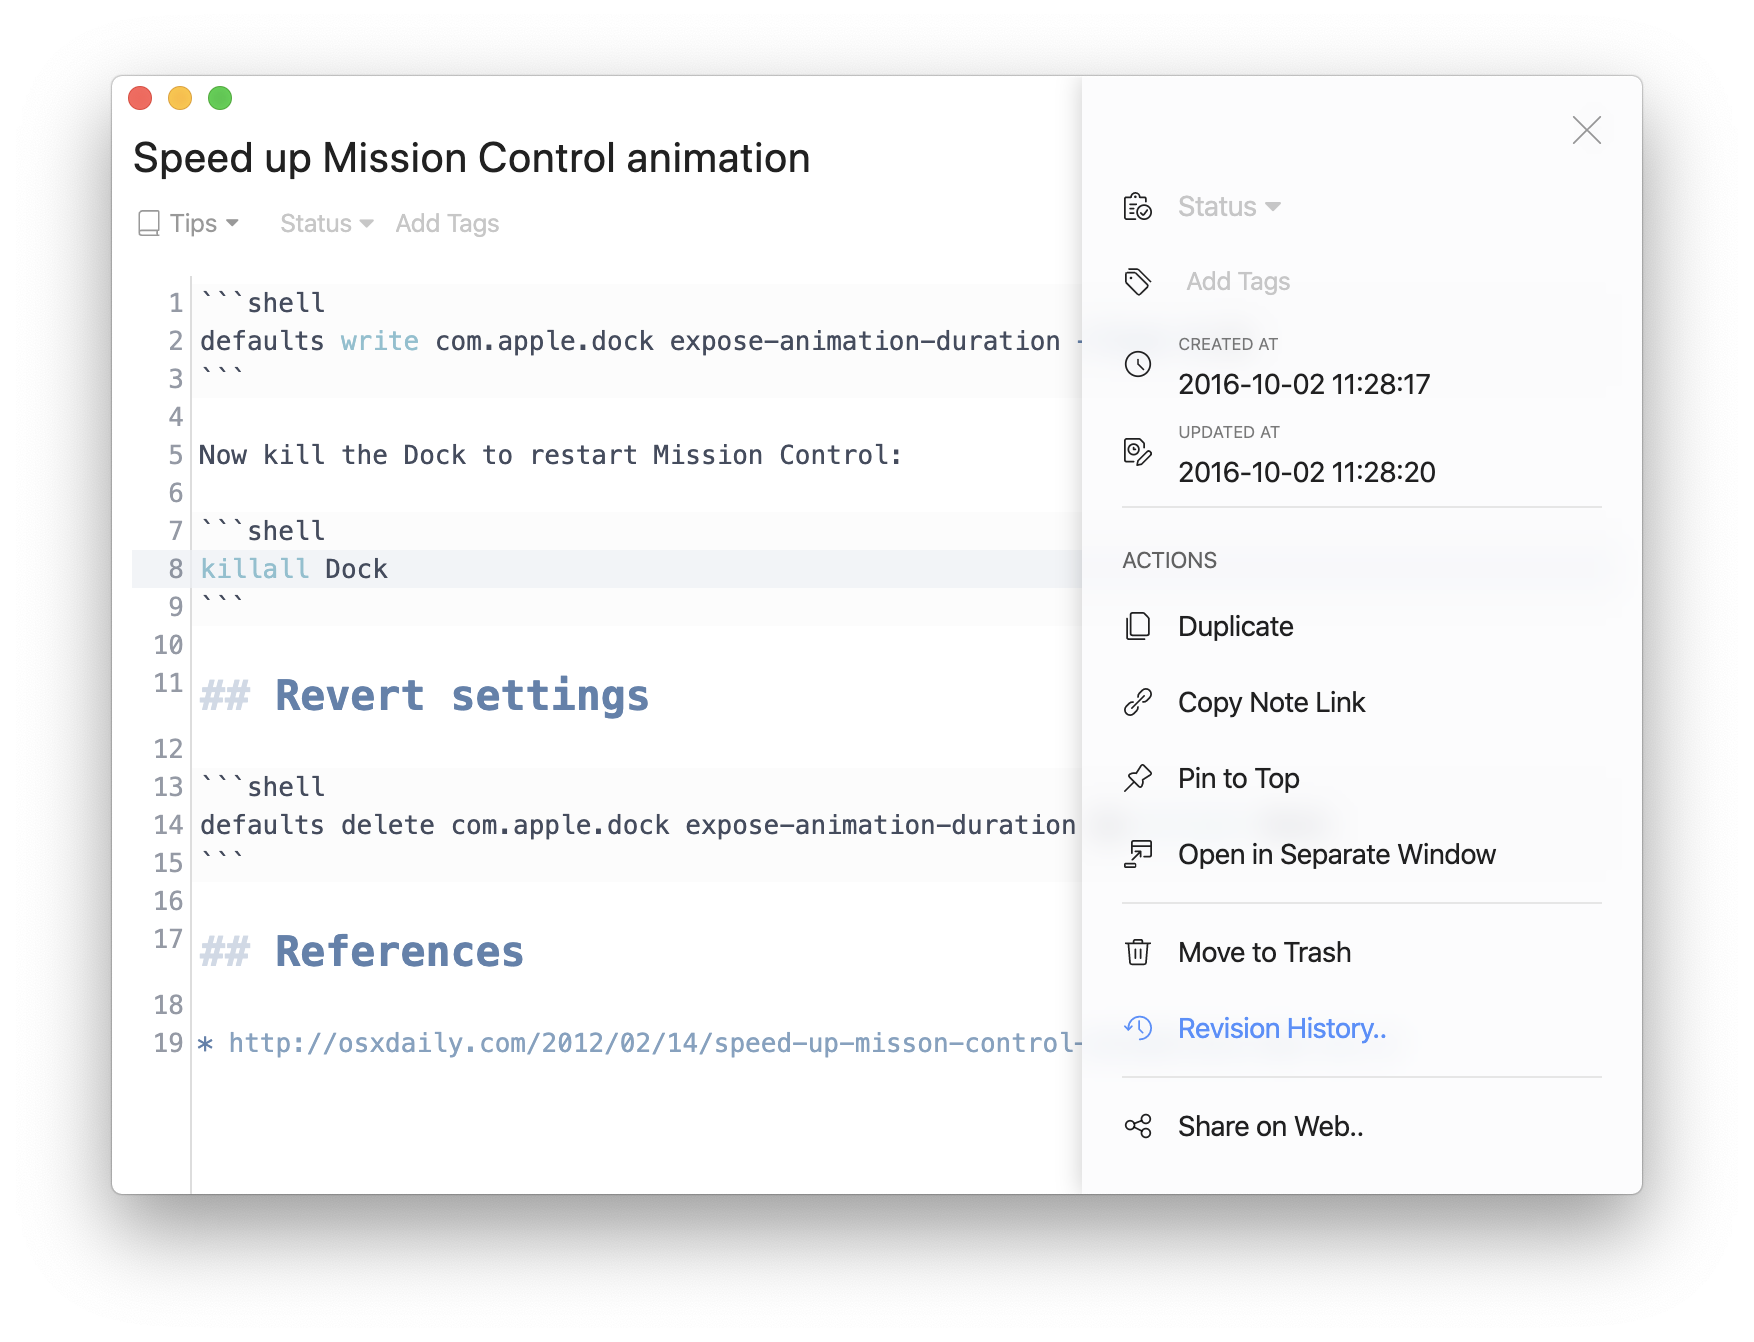
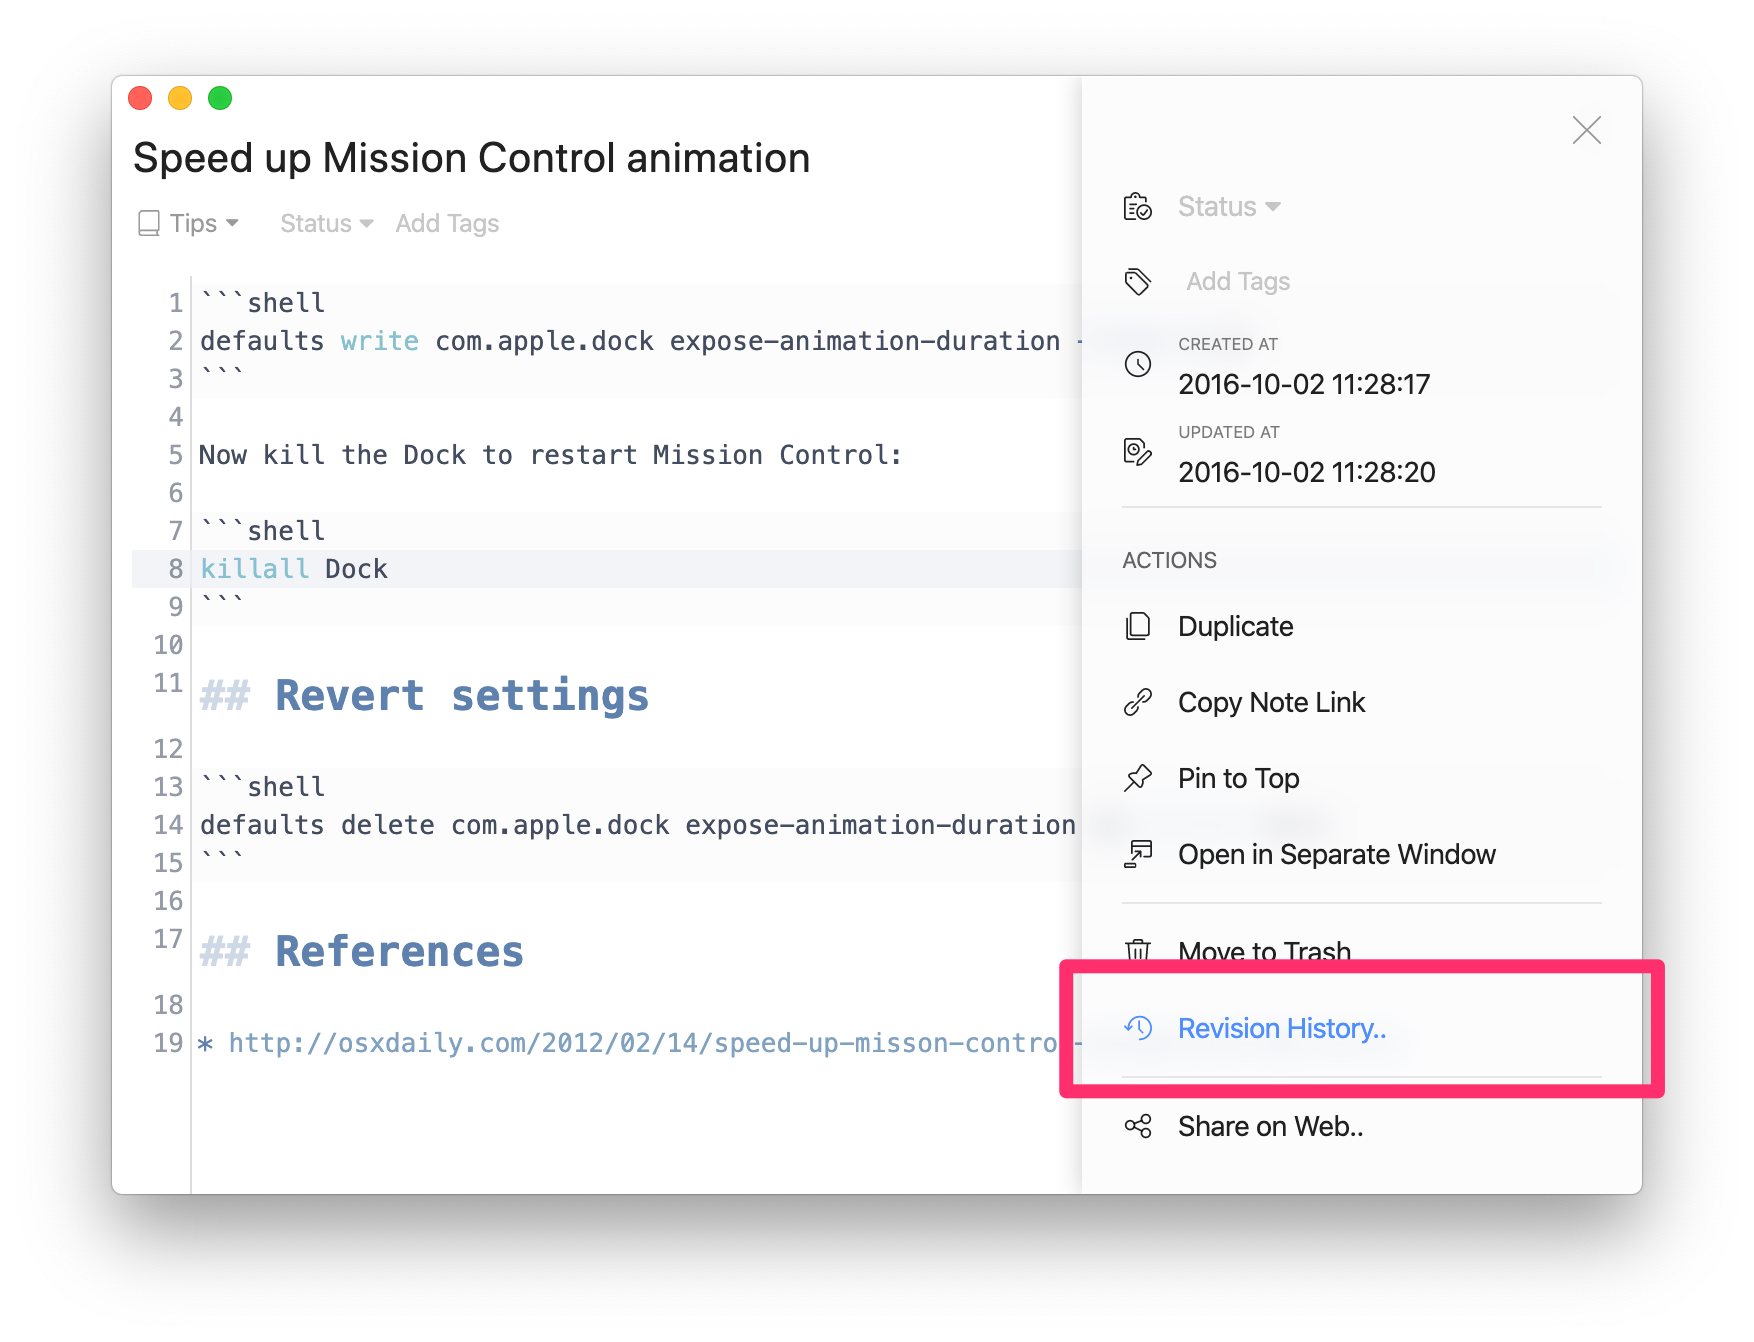
fix(revision-history): update

Changed region(s): [[0.5849, 0.7027, 0.9544, 0.8249], [0.0924, 0.0611, 0.1539, 0.0917]]

diff --git a/src/pages/manual/revision-history.md b/src/pages/manual/revision-history.md
@@ -19,11 +19,12 @@ The app provides a way to access old revisions of notes so you can restore them 
 ### Desktop
 
 1. Open up a note
-2. Click _Revision History_ button at the top right corner of the editor
+1. Click the three-dash button on the top right corner of the editor, or press <kbd>Cmd + J</kbd> on macOS or <kbd>Ctrl + J</kbd> on Linux and Windows
+1. Click _"Revision History.."_ menu on the editor drawer
    ![Revision History Button](./revision-history_button.png)
-3. Select a revision by clicking a dropdown list
+1. Select a revision by clicking a dropdown list
    ![Select Revision](./revision-history_select-revision.png)
-4. Check if the selected revision is ok to restore. Click _Restore_ button
+1. Check if the selected revision is ok to restore. Click _Restore_ button
    ![Select Revision](./revision-history_restore-revision.png)
 
 If you would like to undo restoring the revision, just press `Ctrl-Z` or `Cmd-Z` (Command: `core:undo`).
